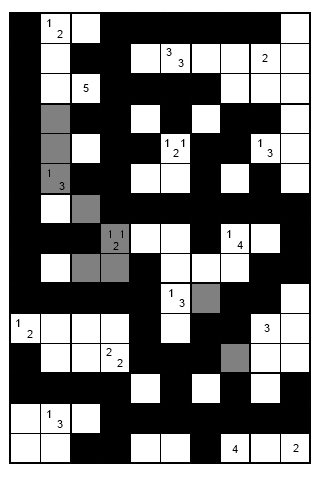
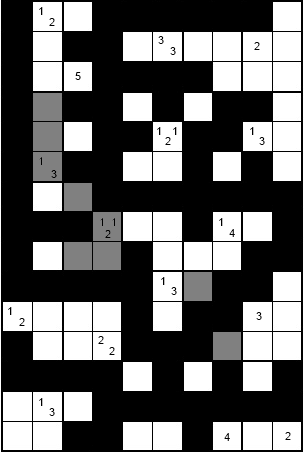
Update Blackout from db.

diff --git a/web/a_circus_line/blackout/style.css b/web/a_circus_line/blackout/style.css
@@ -1,2 +1,2 @@
 .blackout, .blackout h2 { text-align: center; }
-.blackout img { display: block; margin: 0 auto; }
+.blackout img { display: block; margin: 1em auto; }
